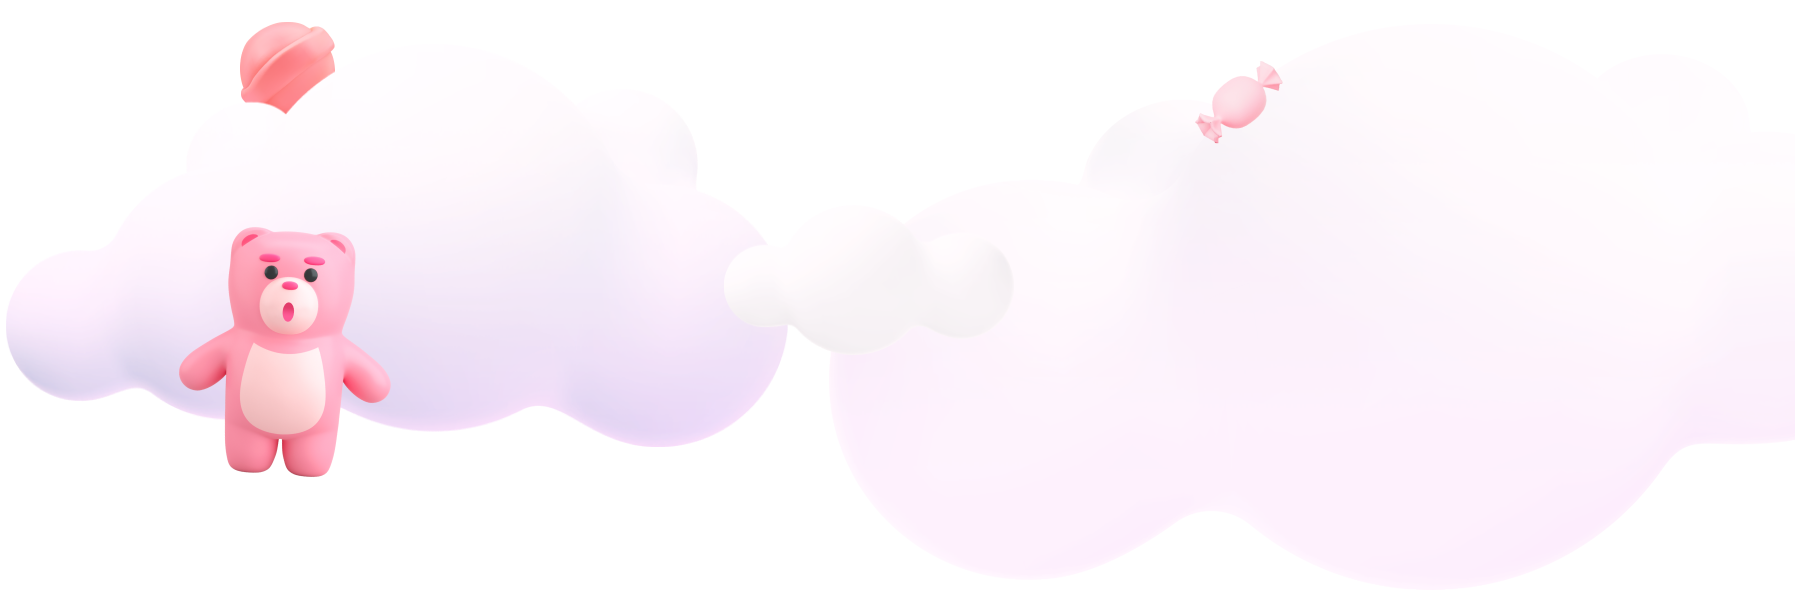
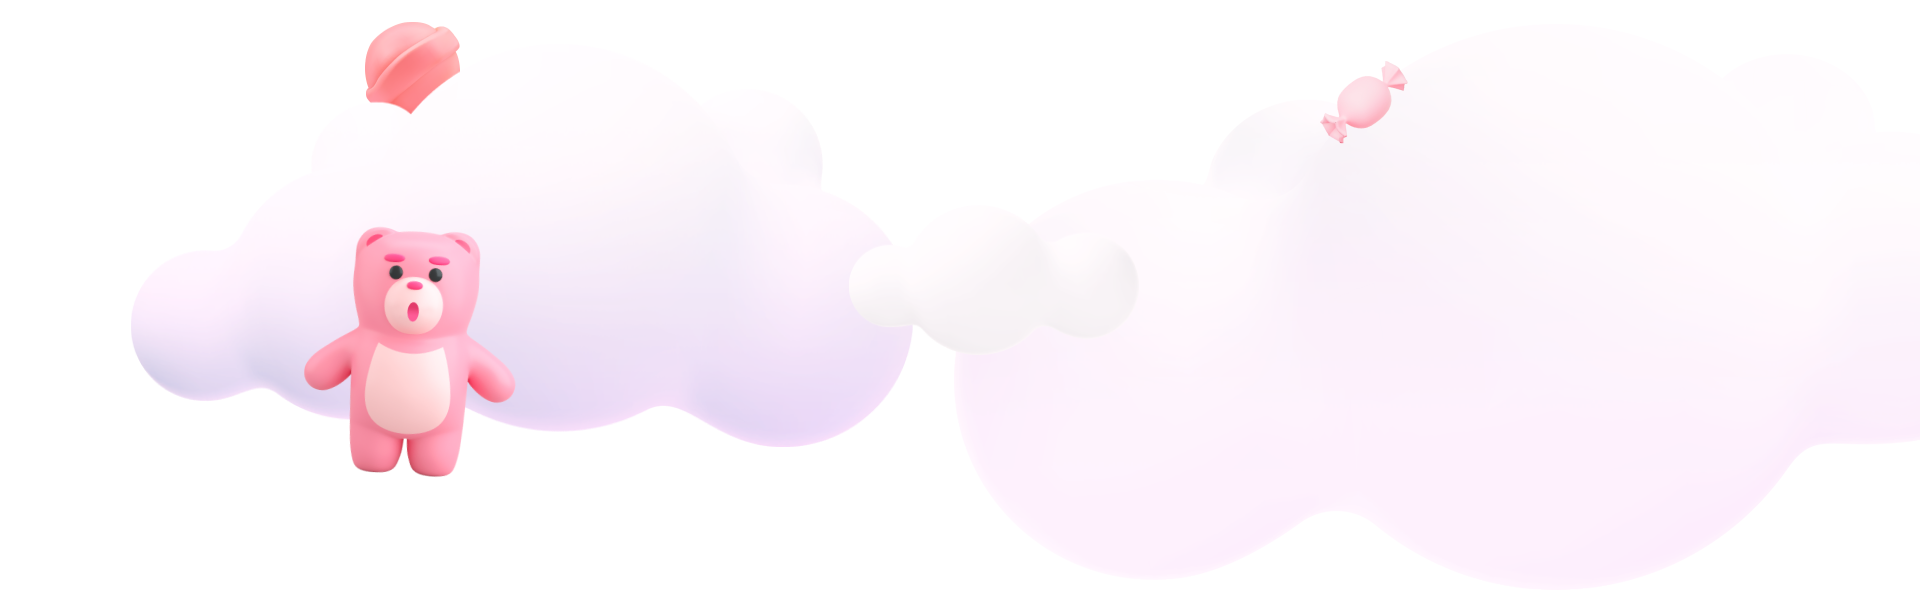
인터렉션 작업 중

Changed region(s): [[0.0, 0.3738, 0.468, 0.7787], [0.1248, 0.0311, 0.2496, 0.1869], [0.6552, 0.0934, 0.7487, 0.2492]]

diff --git a/pages/index.vue b/pages/index.vue
@@ -111,13 +111,19 @@
                       </div>
                     </template>
                   </div>
-                  <button
-                    class="info-btn"
-                    @click="
-                      showInfo();
-                      sendGaEvent('gb_icon', 'GB');
-                    "
-                  />
+                  <div class="info-pop-area">
+                    <button
+                      class="info-btn"
+                      @click="
+                        showInfo();
+                        sendGaEvent('gb_icon', 'GB');
+                      "
+                    />
+                    <img
+                      src="@/assets/images/main/img_get_arrow_motion.svg"
+                      id="arrowMotion"
+                    />
+                  </div>
                   <!--motion object-->
                   <img
                     src="@/assets/images/main/img_get_pinkballoon_motion.svg"
@@ -127,16 +133,12 @@
                     src="@/assets/images/main/img_get_blueballoon_motion.svg"
                     id="blueballoon"
                   />
-                  <img
-                    src="@/assets/images/main/img_get_arrow_motion.svg"
-                    id="arrowMotion"
-                  />
                 </div>
               </div>
               <div class="slide" data-anchor="slide2">
                 <div class="contents">
                   <img
-                    src="@/assets/images/main/getbelly_road_ko_2.jpeg"
+                    src="@/assets/images/main/getbelly&road_ko_2_motion.png"
                     class="roads"
                   />
                   <!--motion object-->
@@ -169,7 +171,7 @@
               <div class="slide" data-anchor="slide3">
                 <div class="contents">
                   <img
-                    src="@/assets/images/main/getbelly_road_ko_3.jpeg"
+                    src="@/assets/images/main/getbelly&road_ko_3_motion.png"
                     class="roads"
                   />
                   <div class="text-con">
@@ -2402,11 +2404,11 @@ export default {
 }
 
 #arrowMotion {
-  width: 1.9%;
+  width: 20%;
   z-index: 9;
   position: absolute;
-  bottom: 25.5%;
-  left: 36.33%;
+  top: 0;
+  left: 43%;
   -webkit-animation: cloud2 1s infinite alternate ease-in-out;
   animation: cloud2 1s infinite alternate ease-in-out;
 }
@@ -2438,8 +2440,8 @@ export default {
   position: absolute;
   top: 35%;
   left: 10%;
-  -webkit-animation: cloud 2s infinite alternate ease-in-out;
-  animation: cloud 2s infinite alternate ease-in-out;
+  -webkit-animation: cloud2 2s infinite alternate ease-in-out;
+  animation: cloud2 2s infinite alternate ease-in-out;
 }
 
 #cloud2 {
@@ -2458,8 +2460,8 @@ export default {
   position: absolute;
   top: 41%;
   left: 53%;
-  -webkit-animation: cloud 2s infinite alternate ease-in-out;
-  animation: cloud 2s infinite alternate ease-in-out;
+  -webkit-animation: cloud2 2s infinite alternate ease-in-out;
+  animation: cloud2 2s infinite alternate ease-in-out;
 }
 
 #cloud4 {
@@ -2555,9 +2557,9 @@ export default {
 
 .cloud-wrapper .obj .l2 {
   position: absolute;
-  width: 1795px;
+  width: 100%;
   right: 0;
-  bottom: -165px;
+  bottom: -10%;
   -webkit-animation: moveUpTo 1.5s infinite alternate linear;
   animation: moveUpTo 1.5s infinite alternate linear;
 }
@@ -2565,7 +2567,7 @@ export default {
   position: absolute;
   width: 100%;
   left: 0;
-  bottom: -190px;
+  bottom: -13%;
   -webkit-animation: moveDownTo 1.5s infinite alternate linear;
   animation: moveDownTo 1.5s infinite alternate linear;
 }

diff --git a/nuxt.config.js b/nuxt.config.js
@@ -141,7 +141,7 @@ export default {
   // Auto import components: https://go.nuxtjs.dev/config-components
   components: true,
   ssr: true,
-  target: 'server',
+  target: "server",
   serverMiddleware: [
     { path: "/apiBellyPhoto", handler: "~/server-middleware/rest.js" },
   ],
@@ -211,7 +211,7 @@ export default {
   /*eslint false*/
   lintOnSave: false,
   server: {
-    //host: "0.0.0.0",
+    host: "0.0.0.0",
   },
   chainWebpack: (config) => {
     config.module

diff --git a/assets/scss/common.scss b/assets/scss/common.scss
@@ -751,12 +751,16 @@ body {
       }
     }
   }
-  .info-btn {
+  .info-pop-area {
     position: absolute;
-    width: 14%;
-    height: 16%;
+    width: 10%;
+    height: 20%;
     bottom: 10%;
-    left: 30%;
+    left: 32%;
+    .info-btn {
+      width: 100%;
+      height: 100%;
+    }
   }
   .ending {
     position: absolute;
